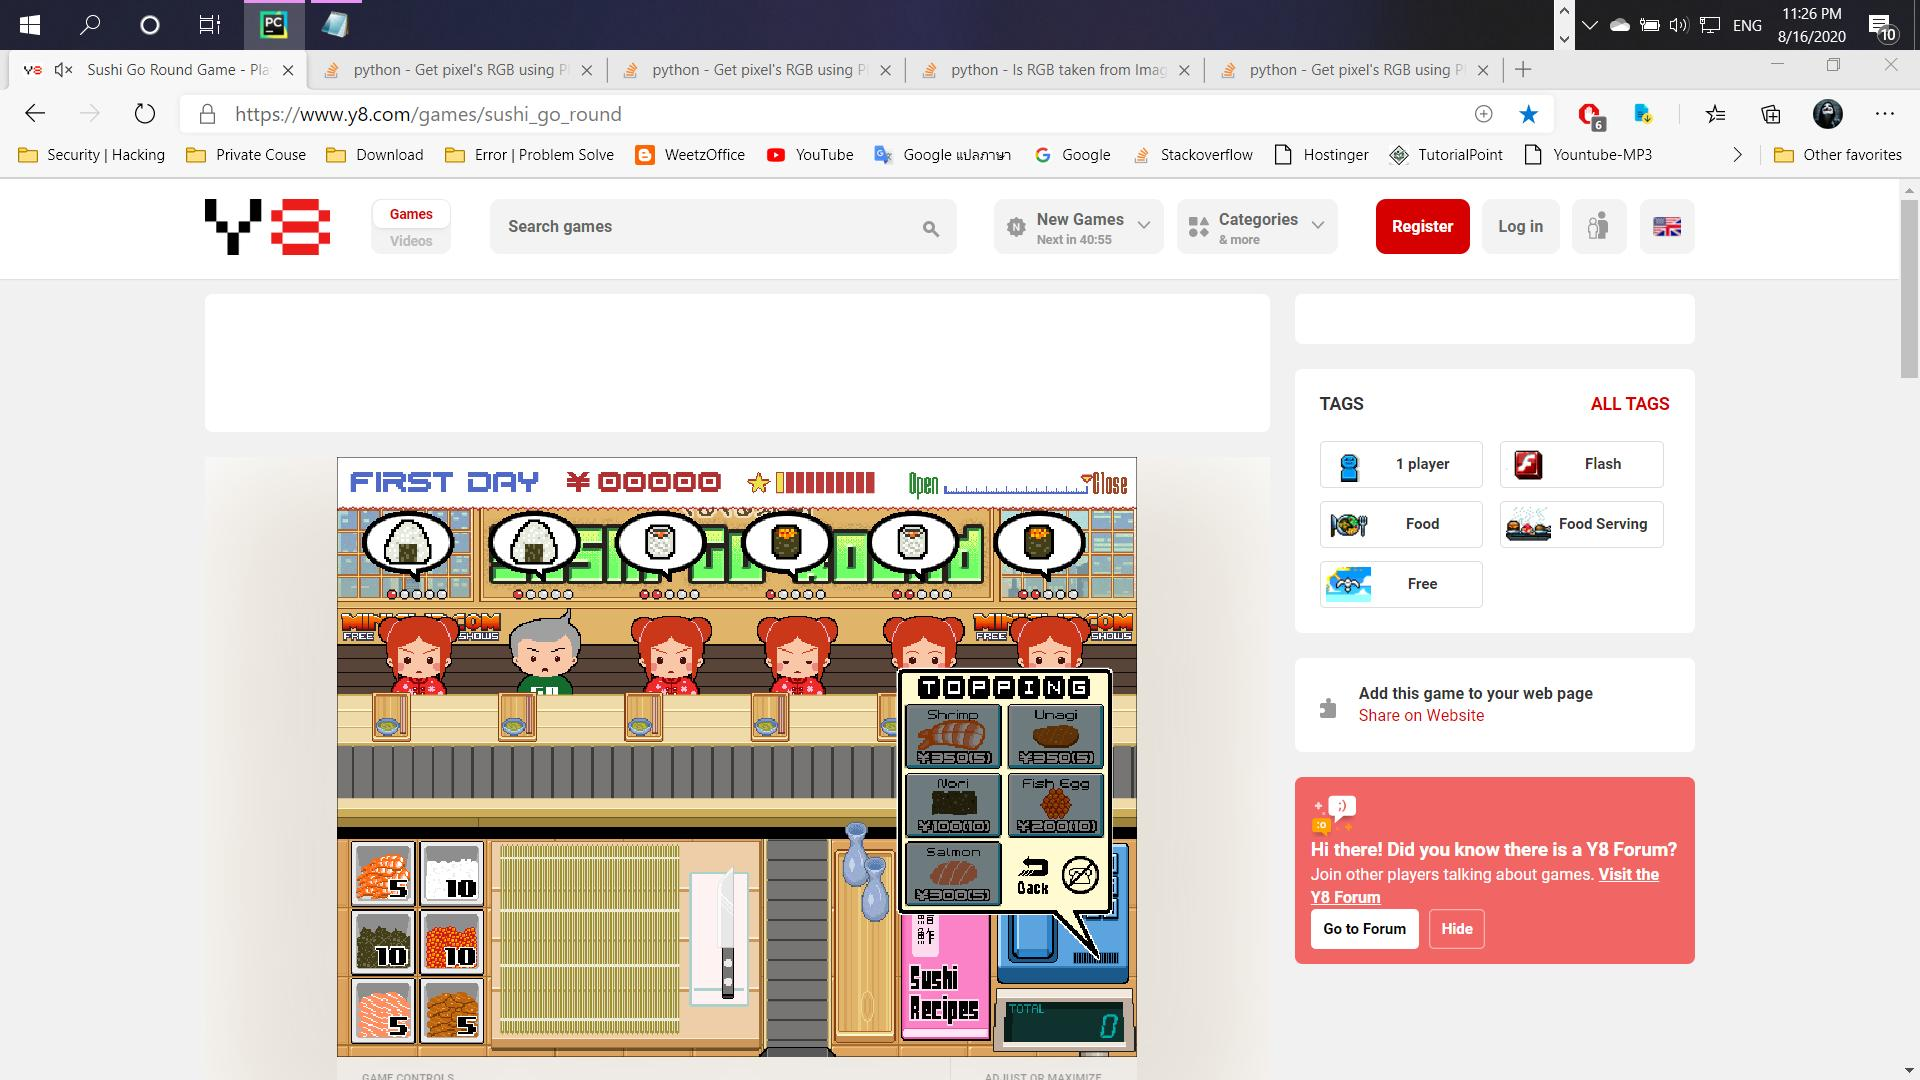
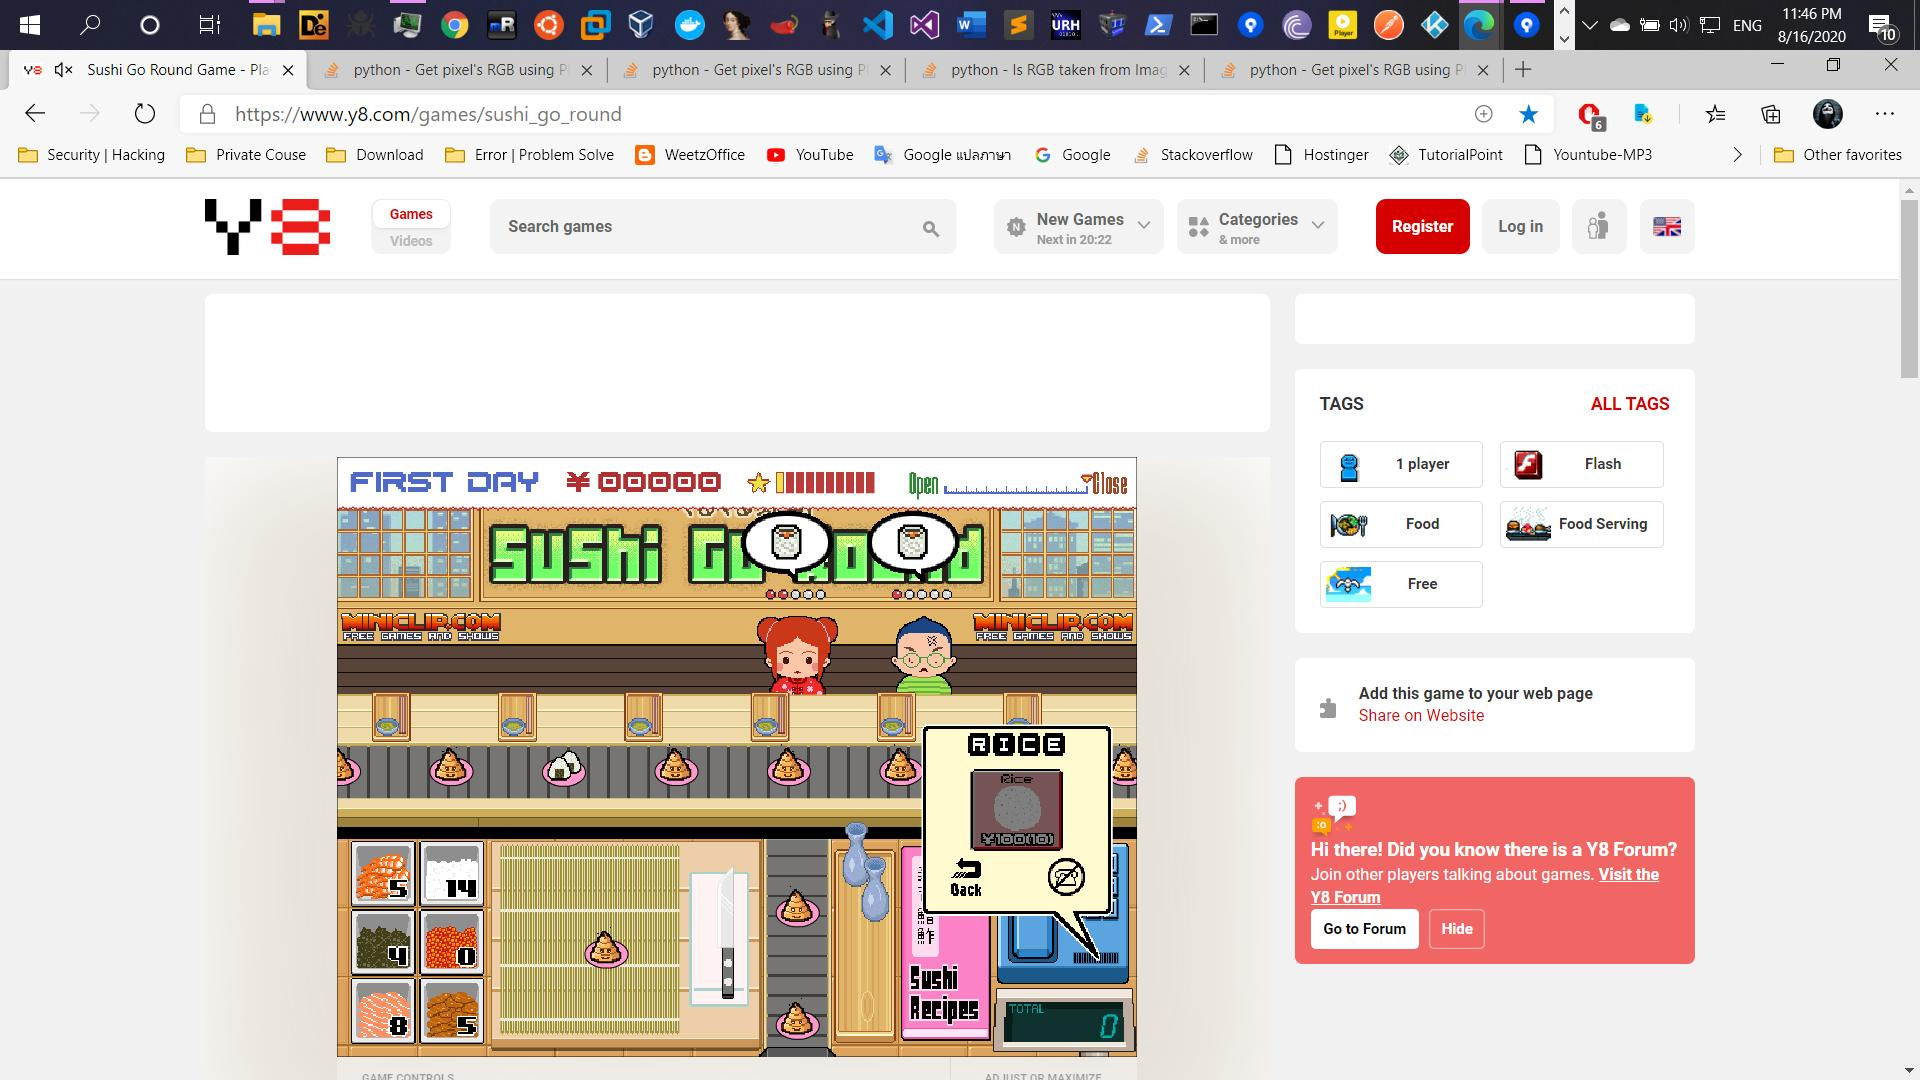
update code

diff --git a/core/bot.py b/core/bot.py
@@ -106,3 +106,88 @@ class Bot:
         self.mouse_click((649, 573))
         self.mouse_click((750, 572))
         self.mouse_click((861, 570))
+
+    def buy(self, component):
+
+        self.grab_img()
+        im = Image.open(self.temp_img)
+        rgb_im = im.convert('RGB')
+
+        self.component = component
+        if component == 'nori':
+            self.mouse_click(Entity.phone)
+            self.mouse_click(Entity.phone_topping)
+            px = rgb_im.getpixel(Entity.topping_nori)
+            if px != Entity.inactive_topping_nori:
+                self.mouse_click(Entity.topping_nori)
+                time.sleep(1)
+                self.mouse_click(Entity.press_order)
+                print('Buying nori now... | px: ', px)
+            else:
+                print("Cannot buy nori | px: ", px)
+                self.mouse_click(Entity.dia_down_phone)
+        elif component == 'salmon':
+            self.mouse_click(Entity.phone)
+            self.mouse_click(Entity.phone_topping)
+            px = rgb_im.getpixel(Entity.topping_salmon)
+            if px != Entity.inactive_topping_salmon:
+                self.mouse_click(Entity.topping_salmon)
+                time.sleep(1)
+                self.mouse_click(Entity.press_order)
+                print('Buying salmon now... | px: ', px)
+            else:
+                print("Cannot buy salmon | px: ", px)
+                self.mouse_click(Entity.dia_down_phone)
+        elif component == 'fish egg':
+            self.mouse_click(Entity.phone)
+            self.mouse_click(Entity.phone_topping)
+            px = rgb_im.getpixel(Entity.topping_fish_egg)
+            if px != Entity.inactive_topping_fish_egg:
+                self.mouse_click(Entity.topping_fish_egg)
+                time.sleep(1)
+                self.mouse_click(Entity.press_order)
+                print('Buying fish egg now... | px: ', px)
+            else:
+                print("Cannot buy fish egg | px: ", px)
+                self.mouse_click(Entity.dia_down_phone)
+
+        elif component == 'unagi':
+            self.mouse_click(Entity.phone)
+            self.mouse_click(Entity.phone_topping)
+            px = rgb_im.getpixel(Entity.topping_unagi)
+            if px != Entity.inactive_topping_unagi:
+                self.mouse_click(Entity.topping_unagi)
+                time.sleep(1)
+                self.mouse_click(Entity.press_order)
+                print('Buying unagi now... | px: ', px)
+            else:
+                print("Cannot buy unagi | px: ", px)
+                self.mouse_click(Entity.dia_down_phone)
+
+        elif component == 'shrimp':
+            self.mouse_click(Entity.phone)
+            self.mouse_click(Entity.phone_topping)
+            px = rgb_im.getpixel(Entity.topping_shrimp)
+            if px != Entity.inactive_topping_shrimp:
+                self.mouse_click(Entity.topping_shrimp)
+                time.sleep(1)
+                self.mouse_click(Entity.press_order)
+                print('Buying shrimp now... | px: ', px)
+            else:
+                print("Cannot buy shrimp | px: ", px)
+                self.mouse_click(Entity.dia_down_phone)
+
+        elif component == 'rice':
+            self.mouse_click(Entity.phone)
+            self.mouse_click(Entity.phone_rice)
+            px = rgb_im.getpixel(Entity.rice_rice)
+            if True:
+                self.mouse_click(Entity.rice_rice)
+                time.sleep(1)
+                self.mouse_click(Entity.press_order)
+                print('Buying rice now... | px: ', px)
+            else:
+                print("Cannot buy rice | px: ", px)
+                self.mouse_click(Entity.dia_down_phone)
+        else:
+            pass

diff --git a/tests/test_buy.py b/tests/test_buy.py
@@ -8,5 +8,75 @@ from core.entity import Entity
 
 bot = Bot()
 
+
+def test_get_path():
+    print("=== test path ===")
+    print("bot.main_path: ", bot.main_path)
+    print("bot.img_path: ", bot.img_path)
+
+
+def test_grab_image():
+    print("=== test grab image ===")
+    bot.grab_img()
+    print("=== grab image OK! ===")
+
+
+def test_mouse_click():
+    print("=== test mouse click ===")
+    cord = (50, 50)
+    print("mouse click at (x, y): ", cord)
+    bot.mouse_click(cord)
+
+
+def test_start_game():
+    print("=== test start game ===")
+    bot.start_game()
+
+
+def test_cook_onigiri():
+    print("=== test cooking onigiri ===")
+    bot.cook('onigiri')
+
+
+def test_cook_california_roll():
+    print("=== test cooking california roll ===")
+    bot.cook('california roll')
+
+
+def test_cook_gunran_maki():
+    print("=== test cooking gunran maki ===")
+    bot.cook('gunran maki')
+
+
 if __name__ == '__main__':
-    bot.show_topping_px()
+    while True:
+        test_get_path()
+        test_grab_image()
+        # test_mouse_click()
+        test_start_game()
+        time.sleep(2)
+        test_cook_onigiri()
+        time.sleep(2)
+        test_cook_california_roll()
+        time.sleep(2)
+        test_cook_gunran_maki()
+
+        bot.buy('nori')
+        bot.buy('salmon')
+        bot.buy('fish egg')
+        bot.buy('unagi')
+        bot.buy('shrimp')
+        bot.buy('rice')
+
+        test_get_path()
+        test_grab_image()
+        # test_mouse_click()
+        test_start_game()
+        time.sleep(2)
+        test_cook_onigiri()
+        time.sleep(2)
+        test_cook_california_roll()
+        time.sleep(2)
+        test_cook_gunran_maki()
+
+        bot.clean()

diff --git a/core/entity.py b/core/entity.py
@@ -17,7 +17,7 @@ class Entity:
     topping_nori = (770 + 20, 648)
     topping_fish_egg = (845 + 20, 642)
     topping_salmon = (760 + 25, 694)
-    topping_back = (831 + 20, 692)
+    topping_back = (831, 692)
 
     rice_rice = (814, 648)
 
@@ -28,9 +28,8 @@ class Entity:
 
     dia_down_phone = (859, 698)
 
-    inactive_topping_shrimp = (770 + 20, 587)
-    inactive_topping_unagi = (854 + 20, 587)
-    inactive_topping_nori = (770 + 20, 648)
-    inactive_topping_fish_egg = (845 + 20, 642)
-    inactive_topping_salmon = (760 + 25, 694)
-    inactive_topping_back = (831 + 20, 692)
+    inactive_topping_shrimp = (215, 174, 86)
+    inactive_topping_unagi = (216, 169, 99)
+    inactive_topping_nori = (247, 202, 173)
+    inactive_topping_fish_egg = (216, 181, 100)
+    inactive_topping_salmon = (161, 120, 64)
